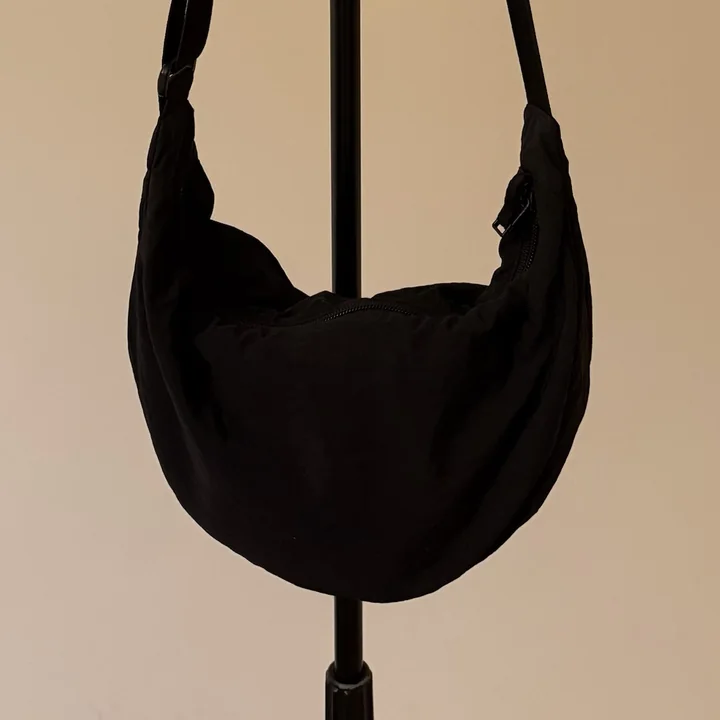
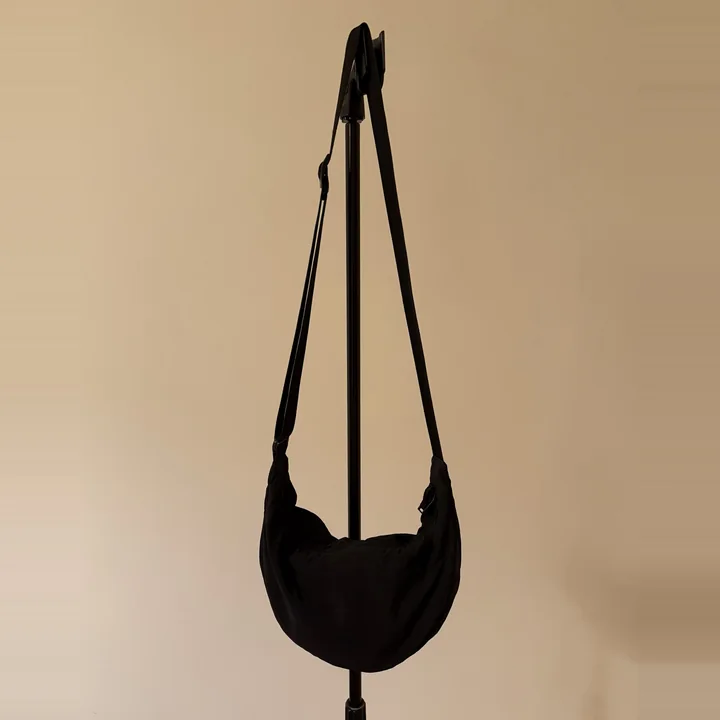
Bag photos show the strap; new leather crossbody photo
Claude-Session: https://claude.ai/code/session_015SQ6x2NYkgXhrEuzvt1gq2

diff --git a/index.html b/index.html
@@ -629,7 +629,7 @@ function shape(k,c){
   }
   return'';
 }
-function g(it,w,h,style){const src=(it.img&&IMG[it.img])||(it.src?it.src.replace(/\?v=\d+$/,'')+'?v=4':'');if(it.src&&!(it.img&&IMG[it.img])){if(/(left|right|top):|--q/.test(style||'')){const q=Math.round(Math.max(w,h)*(/--q/.test(style)?.82:.78));return`<img class="g gq" src="${src}" alt="" loading="lazy" style="width:${q}px;height:${q}px;${style}">`}return`<img class="g gp" src="${src}" alt="" loading="lazy">`}if(src)return`<img class="g" src="${src}" alt="" style="width:${w}px;height:${h}px;object-fit:contain;${style||''}">`;const v=VB[it.kind]||[100,100];return`<svg class="g" viewBox="0 0 ${v[0]} ${v[1]}" style="width:${w}px;height:${h}px;${style||''}" aria-hidden="true">${shape(it.kind,it.color)}</svg>`}
+function g(it,w,h,style){const src=(it.img&&IMG[it.img])||(it.src?it.src.replace(/\?v=\d+$/,'')+'?v=5':'');if(it.src&&!(it.img&&IMG[it.img])){if(/(left|right|top):|--q/.test(style||'')){const q=Math.round(Math.max(w,h)*(/--q/.test(style)?.82:.78));return`<img class="g gq" src="${src}" alt="" loading="lazy" style="width:${q}px;height:${q}px;${style}">`}return`<img class="g gp" src="${src}" alt="" loading="lazy">`}if(src)return`<img class="g" src="${src}" alt="" style="width:${w}px;height:${h}px;object-fit:contain;${style||''}">`;const v=VB[it.kind]||[100,100];return`<svg class="g" viewBox="0 0 ${v[0]} ${v[1]}" style="width:${w}px;height:${h}px;${style||''}" aria-hidden="true">${shape(it.kind,it.color)}</svg>`}
 
 /* ---------- image store (photos you add stay on this device) ---------- */
 const IMG={};let DB=null;
@@ -663,7 +663,7 @@ function seed(){
     {id:'i21',name:'Black mary janes',short:'black mary janes',cat:'shoes',kind:'loafers',color:'#1F1B19',colorName:'Black',fabric:'Leather',brand:'Massimo Dutti',warm:[10,30],noRain:true,care:'Polish',place:'Shoe rack',src:'photos/pieces/shoes-black-mary-janes.webp?v=2'},
     {id:'i12',name:'Black chain loafers',short:'loafers',cat:'shoes',kind:'loafers',color:'#1F1B19',colorName:'Black',fabric:'Leather',brand:'Aldo',warm:[4,28],care:'Polish',place:'Shoe rack',src:'photos/pieces/shoes-black-loafers.webp?v=2'},
     {id:'i13',name:'Black ankle boots',short:'ankle boots',cat:'shoes',kind:'boots',color:'#1F1B19',colorName:'Black',fabric:'Leather',warm:[-5,17],rain:true,care:'Polish & waterproof',place:'Shoe rack',src:'photos/pieces/shoes-black-ankle-boots.webp?v=2'},
-    {id:'i15',name:'Black leather crossbody',short:'leather crossbody',cat:'bag',kind:'bag',color:'#1F1B19',colorName:'Black',fabric:'Leather',use:['weekend','travel'],warm:[-10,40],care:'Condition',place:'Hall closet',src:'photos/pieces/bag-black-leather-crossbody.webp'},
+    {id:'i15',name:'Black leather crossbody',short:'leather crossbody',cat:'bag',kind:'bag',color:'#1F1B19',colorName:'Black',fabric:'Leather',brand:'Massimo Dutti',use:['weekend','travel'],warm:[-10,40],care:'Condition',place:'Hall closet',src:'photos/pieces/bag-black-leather-crossbody.webp'},
     {id:'i16',name:'Black crescent bag',short:'black crescent bag',cat:'bag',kind:'bag',color:'#1F1B19',colorName:'Black',fabric:'Nylon',use:['weekend','travel'],warm:[-10,40],care:'Machine wash cold',place:'Hall closet',src:'photos/pieces/bag-black-crescent.webp'},
     {id:'i20',name:'Taupe crescent bag',short:'taupe crescent bag',cat:'bag',kind:'bag',color:'#8F7C68',colorName:'Taupe',fabric:'Nylon',use:['work','evening'],warm:[-10,40],care:'Machine wash cold',place:'Hall closet',src:'photos/pieces/bag-taupe-crescent.webp'},
     {id:'i17',name:'White broderie blouse',short:'broderie blouse',cat:'top',kind:'shirt',color:'#F4EFE8',colorName:'White',fabric:'Cotton broderie',warm:[12,28],care:'Machine wash 30°',place:'Bedroom wardrobe',fav:true},
@@ -686,7 +686,7 @@ const MY_SHOES=[{id:'i19',name:'Brown mary janes',short:'brown mary janes',cat:'
     {id:'i21',name:'Black mary janes',short:'black mary janes',cat:'shoes',kind:'loafers',color:'#1F1B19',colorName:'Black',fabric:'Leather',brand:'Massimo Dutti',warm:[10,30],noRain:true,care:'Polish',place:'Shoe rack',src:'photos/pieces/shoes-black-mary-janes.webp?v=2'},
     {id:'i12',name:'Black chain loafers',short:'loafers',cat:'shoes',kind:'loafers',color:'#1F1B19',colorName:'Black',fabric:'Leather',brand:'Aldo',warm:[4,28],care:'Polish',place:'Shoe rack',src:'photos/pieces/shoes-black-loafers.webp?v=2'},
     {id:'i13',name:'Black ankle boots',short:'ankle boots',cat:'shoes',kind:'boots',color:'#1F1B19',colorName:'Black',fabric:'Leather',warm:[-5,17],rain:true,care:'Polish & waterproof',place:'Shoe rack',src:'photos/pieces/shoes-black-ankle-boots.webp?v=2'}];
-const MY_BAGS=[{id:'i15',name:'Black leather crossbody',short:'leather crossbody',cat:'bag',kind:'bag',color:'#1F1B19',colorName:'Black',fabric:'Leather',use:['weekend','travel'],warm:[-10,40],care:'Condition',place:'Hall closet',src:'photos/pieces/bag-black-leather-crossbody.webp'},
+const MY_BAGS=[{id:'i15',name:'Black leather crossbody',short:'leather crossbody',cat:'bag',kind:'bag',color:'#1F1B19',colorName:'Black',fabric:'Leather',brand:'Massimo Dutti',use:['weekend','travel'],warm:[-10,40],care:'Condition',place:'Hall closet',src:'photos/pieces/bag-black-leather-crossbody.webp'},
     {id:'i16',name:'Black crescent bag',short:'black crescent bag',cat:'bag',kind:'bag',color:'#1F1B19',colorName:'Black',fabric:'Nylon',use:['weekend','travel'],warm:[-10,40],care:'Machine wash cold',place:'Hall closet',src:'photos/pieces/bag-black-crescent.webp'},
     {id:'i20',name:'Taupe crescent bag',short:'taupe crescent bag',cat:'bag',kind:'bag',color:'#8F7C68',colorName:'Taupe',fabric:'Nylon',use:['work','evening'],warm:[-10,40],care:'Machine wash cold',place:'Hall closet',src:'photos/pieces/bag-taupe-crescent.webp'}];
 function migBags(T){if(!T||!T.items||(T.mig&&T.mig.bags1))return;T.mig=T.mig||{};T.items=T.items.filter(i=>i.cat!=='bag').concat(MY_BAGS.map(x=>Object.assign({worn:0,last:null},x)));const keep=new Set(MY_BAGS.map(x=>x.id));const fix=a=>Array.isArray(a)?a.filter(id=>!(/^i\d+$/.test(id)&&false)):a;T.mig.bags1=Date.now()}
